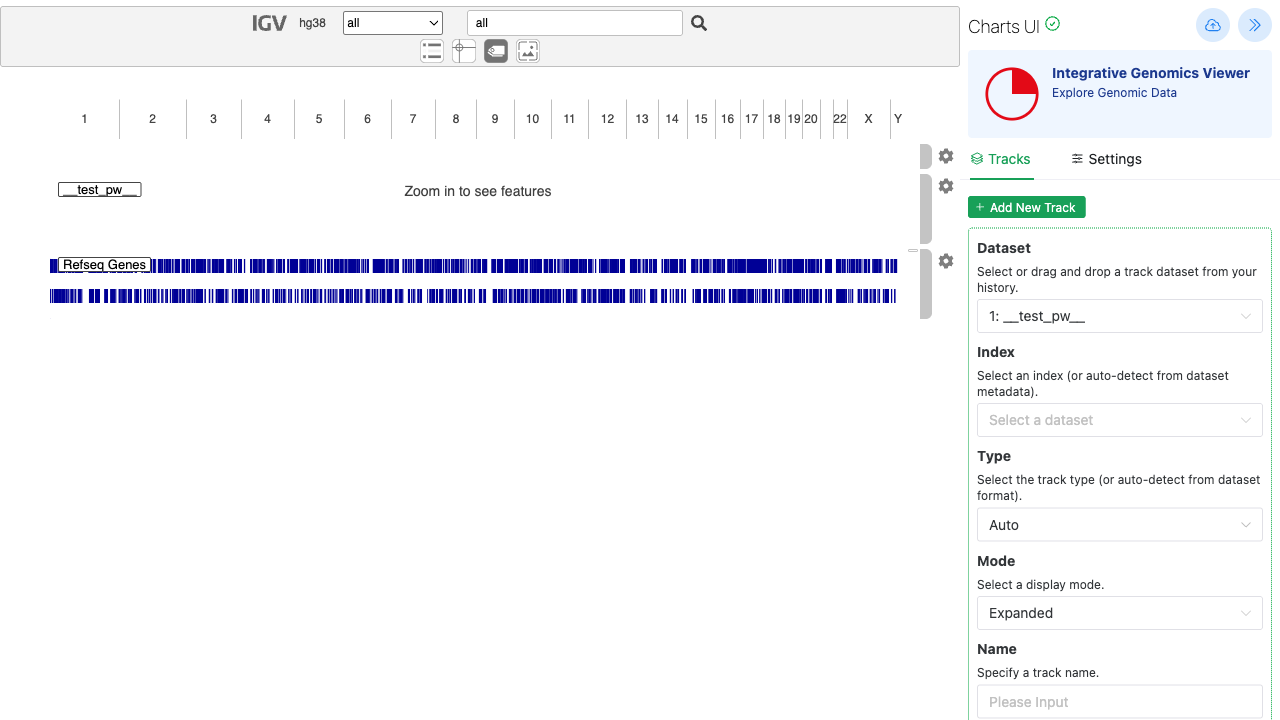
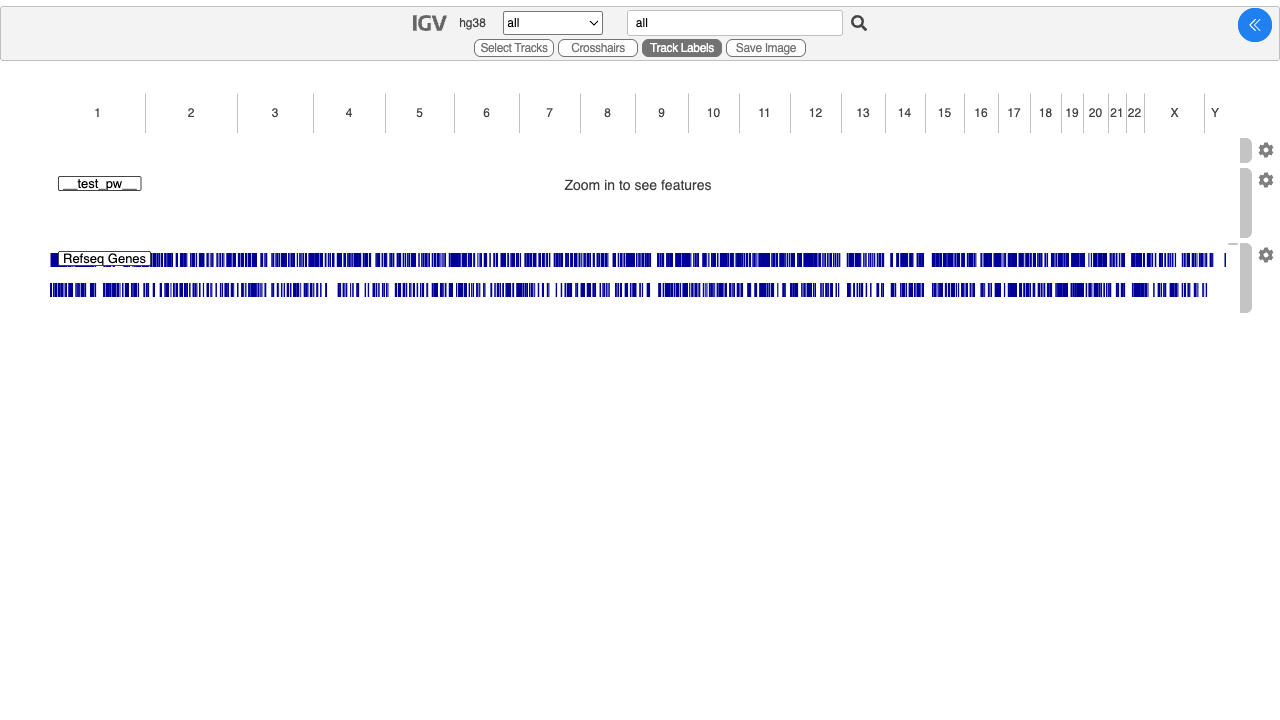
Collapse sidepanel on initalization

diff --git a/packages/igv/test.spec.js b/packages/igv/test.spec.js
@@ -110,14 +110,16 @@ test("basic load and drag-drop dataset", async ({ page }) => {
     await page.goto("http://localhost:5173?dataset_id=__test_pw__");
     await page.waitForSelector(".igv-track-label[title='__test_pw__']");
     await expect(page).toHaveScreenshot("0.png", { maxDiffPixelRatio: 0.03 });
+    await page.click(".n-button");
+    await expect(page).toHaveScreenshot("1.png", { maxDiffPixelRatio: 0.03 });
     await page.fill(".igv-search-input", "chr1:1-150,000");
     await page.keyboard.press("Enter");
     await page.waitForTimeout(1000);
-    await expect(page).toHaveScreenshot("1.png", { maxDiffPixelRatio: 0.03 });
+    await expect(page).toHaveScreenshot("2.png", { maxDiffPixelRatio: 0.03 });
     await createMockDatasetElement(page);
     await dragAndDropDataset(page, "__test_pw_dropped__", "__test_pw_dropped__");
     await page.waitForSelector(".igv-track-label[title='__test_pw_dropped__']");
     const accepted = messages.some((msg) => msg.includes("[igv] Dropped Tracks"));
     expect(accepted).toBeTruthy();
-    await expect(page).toHaveScreenshot("2.png", { maxDiffPixelRatio: 0.03 });
+    await expect(page).toHaveScreenshot("3.png", { maxDiffPixelRatio: 0.03 });
 });

diff --git a/packages/igv/src/main.js b/packages/igv/src/main.js
@@ -51,7 +51,7 @@ async function main() {
      * and passing in any necessary props such as credentials.
      */
     createApp({
-        render: () => h(App, { container: container, credentials: process.env.credentials }),
+        render: () => h(App, { collapse: true, container: container, credentials: process.env.credentials }),
     }).mount(`#${container}`);
 }
 
